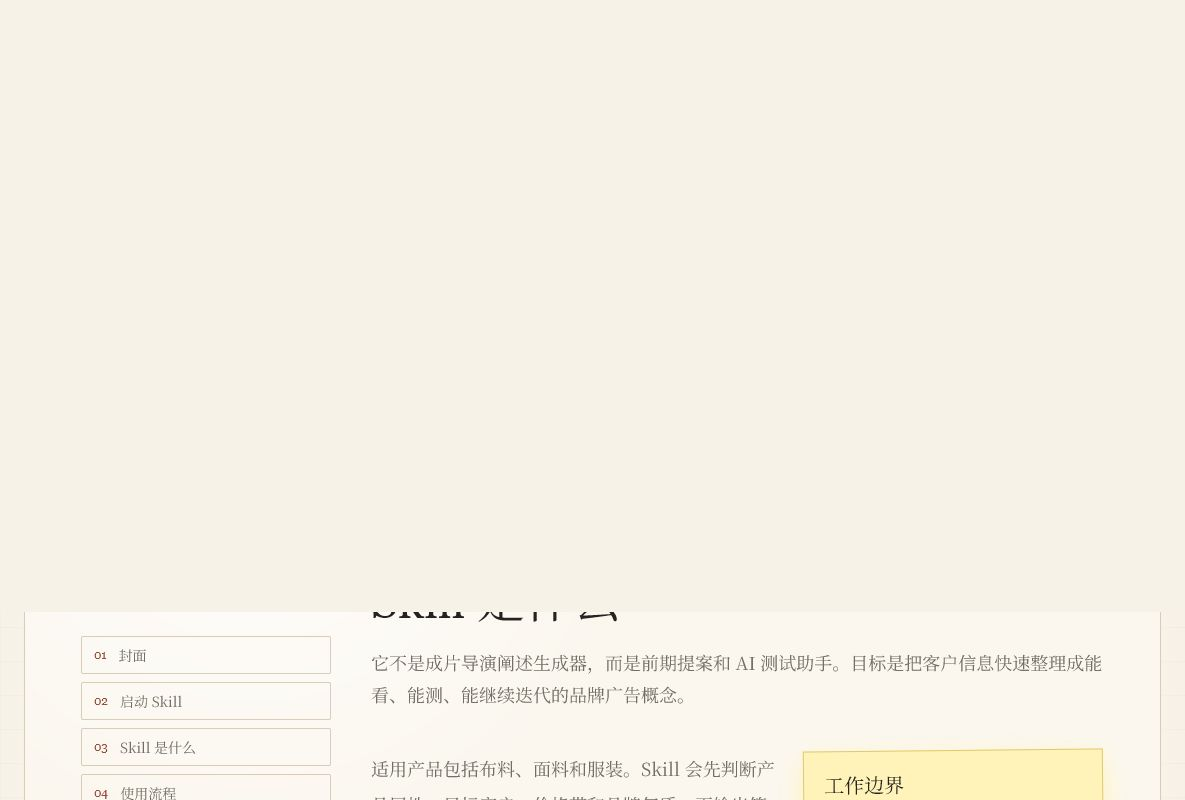
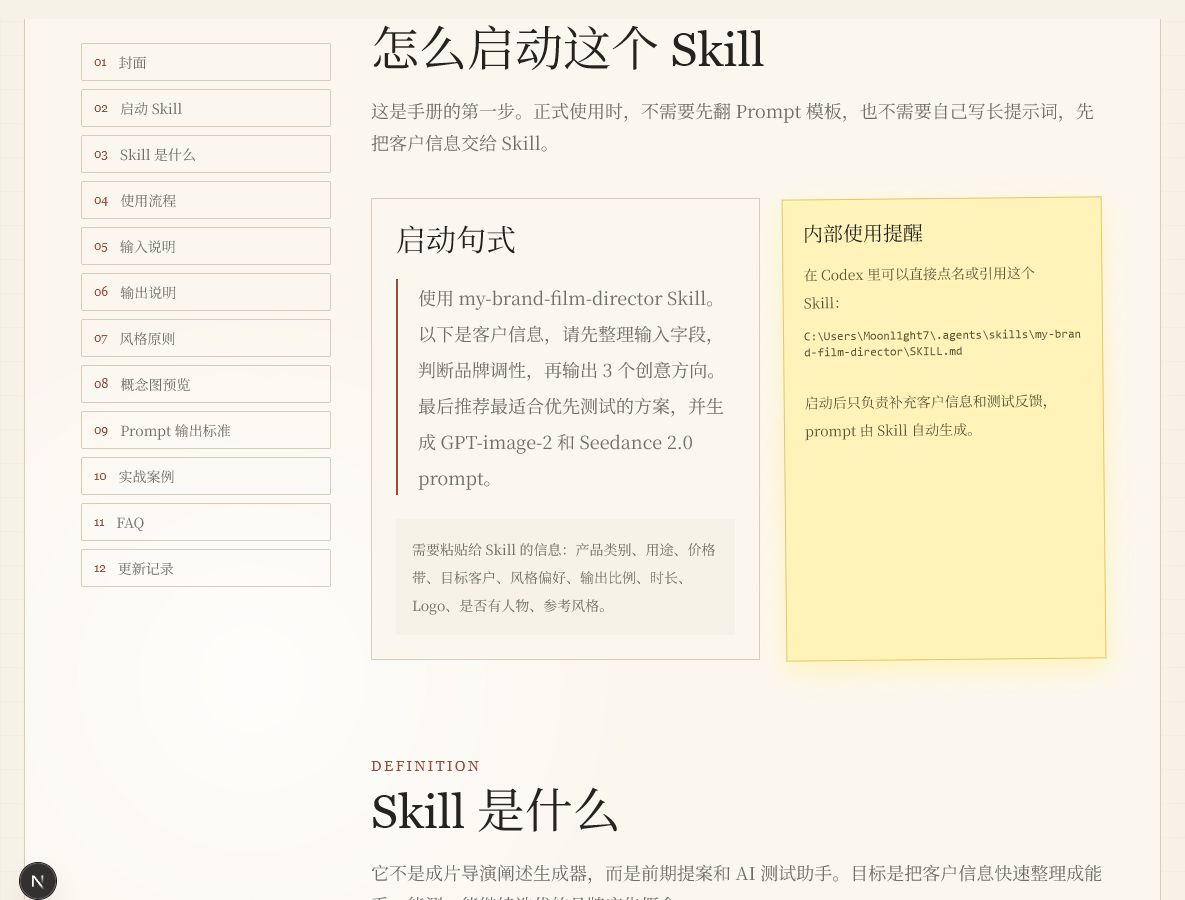
update readme launch instructions and preview

diff --git a/README.md b/README.md
@@ -10,7 +10,7 @@
 
 ![首页与启动说明](public/previews/home-start.png)
 
-Prompt 输出标准：
+Prompt 输出标准模块：
 
 ![Prompt 输出标准](public/previews/prompt-standards.png)
 
@@ -21,13 +21,37 @@ Prompt 输出标准：
 - Tailwind CSS
 - 本地 TypeScript 数据模块
 
-## 本地安装命令
+## 推荐启动方式：双击一键启动
+
+Windows 电脑上，直接双击项目根目录里的：
+
+```text
+启动TVC手册.cmd
+```
+
+它会自动执行：
+
+- 检查是否在项目根目录
+- 检查 Node.js 和 npm
+- 如果没有 `node_modules`，自动运行 `npm install`
+- 启动 `npm run dev`
+- 自动打开 `http://localhost:3000`
+
+真正的启动逻辑在：
+
+```text
+scripts/launch-dev.ps1
+```
+
+## 本地安装和手动启动
+
+如果不使用一键启动，也可以手动运行：
 
 ```bash
 npm install
 ```
 
-## 启动命令
+然后启动：
 
 ```bash
 npm run dev
@@ -49,11 +73,11 @@ npm run build
 
 ## 第二天复制到公司电脑后的操作步骤
 
-1. 复制整个项目文件夹，但不要复制 `node_modules` 和 `.next`。
+1. 复制整个项目文件夹，或使用 Git clone。
 2. 在公司电脑安装 Node.js。
-3. 打开终端进入项目目录。
-4. 执行 `npm install` 安装依赖。
-5. 执行 `npm run dev` 本地预览。
+3. 进入项目目录。
+4. 推荐直接双击 `启动TVC手册.cmd`。
+5. 如果不用一键启动，再手动执行 `npm install` 和 `npm run dev`。
 6. 如需确认可发布，执行 `npm run build`。
 
 ## 内容维护方式
@@ -108,8 +132,10 @@ TVC手册/
   data/
   lib/
   public/
+  scripts/
   .gitignore
   README.md
+  启动TVC手册.cmd
   package.json
   postcss.config.js
   tailwind.config.ts